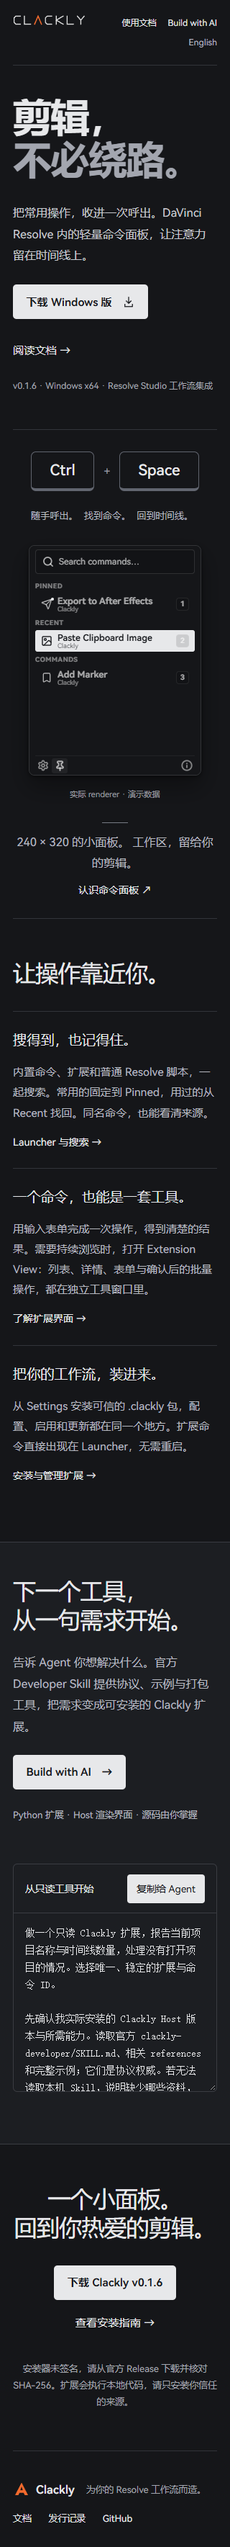
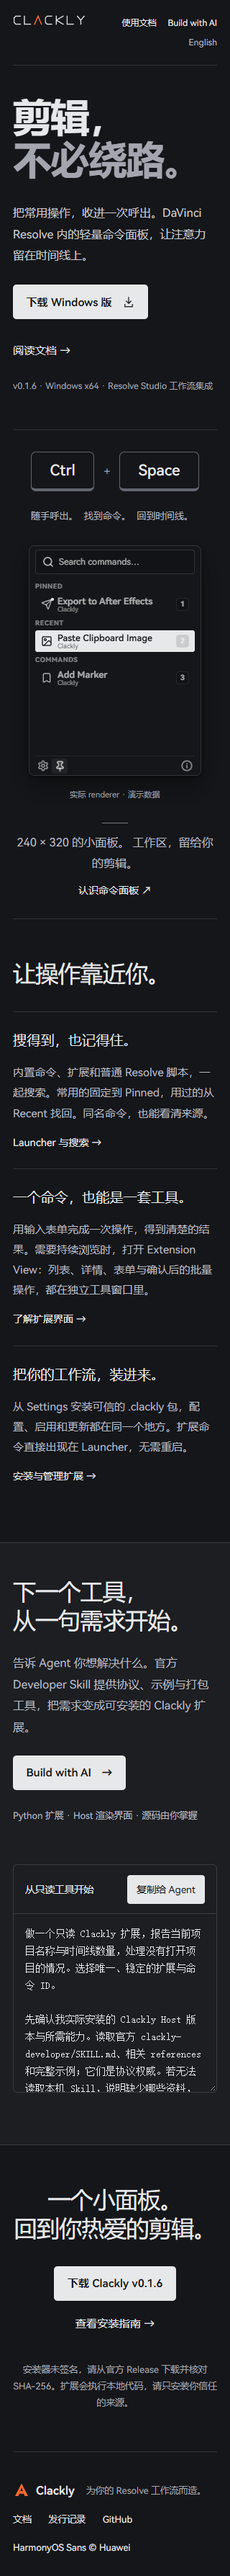
docs: retain font license and link tracked design sources
Assisted-by: Cindy (https://cindy.app)

diff --git a/site/evidence/README.md b/site/evidence/README.md
@@ -5,12 +5,13 @@ Source branch: docs/issue-11-site. Website baseline: public v0.1.6. Original che
 ## Verification
 
 - Astro 7.3.8 / Starlight 0.41.7 / Black Theme 0.7.1 production build passed under Node 22.19.0.
-- Static verification passed: 41 HTML pages, 19 matching Chinese/English documentation routes, 2,935 local URLs/assets/fragments and 19 byte-exact Developer Skill source exports with SHA-256 inventory.
+- Static verification passed: 41 HTML pages, 19 matching Chinese/English documentation routes, 2,939 local URLs/assets/fragments and 19 byte-exact Developer Skill source exports with SHA-256 inventory.
 - 12/12 Playwright tests passed against the built preview using headless Edge 156.0.4314.58 on Windows. Tests exercise both home-to-doc-to-AI routes, six prompts per language with real clipboard readback, clipboard denial recovery, authoritative Markdown retrieval/copy, locale-preserving language switch, Pagefind search, keyboard mobile navigation, theme switch, readable non-overlapping translated sidebar links, keyboard-scrollable mobile tables and responsive asset/error/overflow checks.
 - Viewports captured: 1440, 390 and 320 pixels. No page error or asset HTTP error appeared in the responsive run.
 - Original product screenshot was generated with the existing pinned-recent renderer evidence scenario. Main-to-v0.1.6 renderer source diff is empty. Screenshot data are deterministic fixtures; this is not a native Resolve capture.
 - Mechanical design detector ran once over the four changed frontend files. It reported only advisory mismatches between literal neutral colors/type steps/radii and the summarized design tokens. No hard design bans were reported. Independent finish review is recorded in Issue #11/PR.
 - git diff --check passed. No application functional change, installer build/download or live Resolve operation was needed.
+- Final record check replaced an untracked local design-note reference with the committed renderer styles. The unmodified HarmonyOS Sans font includes its complete original copyright notice/license, linked from both homepages and documentation entry pages.
 
 ## Screenshots
 

diff --git a/site/README.md b/site/README.md
@@ -39,4 +39,6 @@ Adapted from Wutpeach/Ameow site/: Astro 7, Starlight 0.41, Black Theme, root/En
 
 public/images/palette.png is an actual Clackly renderer capture with deterministic test data. It was produced headlessly with the existing palette-evidence utility (built renderer, pinned-recent scenario) and is labelled as demo data on both homepages. It does not prove native Resolve execution, Windows compositor behavior or production installation. Product wordmark, mark and HarmonyOS font come from the existing application assets. No stock or AI-generated product screenshot is used. public/images/palette.png.json records the source.
 
-Review screenshots and validation receipts are linked from Issue #11 and the PR. The original application DESIGN.md remains the brand authority; the site inherits its neutral surface, typography, logo, controlled corners and keyboard emphasis.
+Review screenshots and validation receipts are linked from Issue #11 and the PR. The site inherits the existing application's neutral surface, typography, logo, controlled corners and keyboard emphasis; the tracked [renderer styles](../resolve-command-center/electron/renderer/styles.css) provide the visual source. This work does not depend on untracked local design notes.
+
+The website uses HarmonyOS Sans © 2021 Huawei Device Co., Ltd. Its [complete license notice and agreement](public/fonts/HARMONYOS_SANS_LICENSE.txt) accompany the unmodified font and are linked from the homepages and documentation entry pages.

diff --git a/site/DESIGN.md b/site/DESIGN.md
@@ -36,7 +36,7 @@ components:
 
 ## Overview
 
-This surface extends the application visual system documented in ../DESIGN.md. The home introduces Clackly to Resolve editors; the docs help them complete a task. Product facts come from the actual Release and Developer Skill. The website does not redefine application windows or runtime behavior.
+This surface extends the application visual system implemented in [the renderer styles](../resolve-command-center/electron/renderer/styles.css), including its neutral palette, HarmonyOS Sans font and compact controls. The home introduces Clackly to Resolve editors; the docs help them complete a task. Product facts come from the actual Release and Developer Skill. The website does not redefine application windows or runtime behavior.
 
 ## Colors
 

diff --git a/site/src/content/docs/en/docs/index.md b/site/src/content/docs/en/docs/index.md
@@ -21,3 +21,5 @@ Public distribution targets **Windows x64 + DaVinci Resolve Studio Workflow Inte
 Clackly runs on your computer. This website is for learning and reference.
 
 [Product home](/Clackly/en/) · [Release history](/Clackly/en/docs/releases/)
+
+This website uses HarmonyOS Sans, © 2021 Huawei Device Co., Ltd. Read the [font license and notice](/Clackly/fonts/HARMONYOS_SANS_LICENSE.txt).
